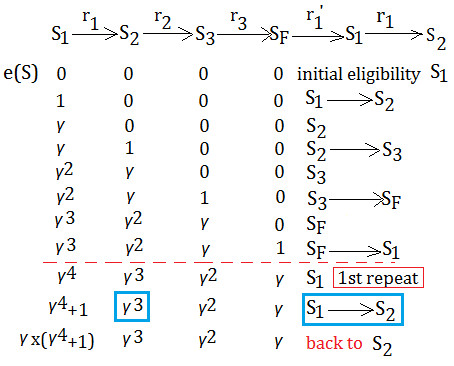
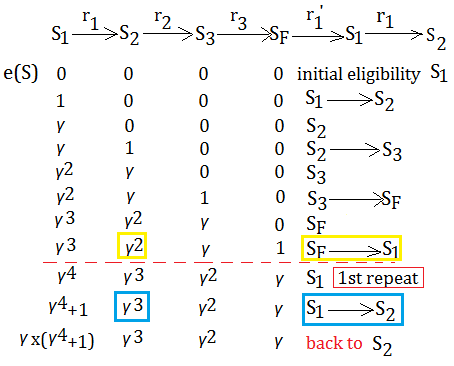
update _posts/2018-12-23-rl-temp-diff-learn.md with repeated TD(1) illustration, 11

Changed region(s): [[0.6476, 0.6311, 0.8943, 0.7213], [0.2467, 0.6311, 0.3392, 0.7213]]

diff --git a/_posts/2018-12-23-rl-temp-diff-learn.md b/_posts/2018-12-23-rl-temp-diff-learn.md
@@ -256,6 +256,13 @@ title: Temporal Difference Learning
 ><font color="Brown">[The repeated update term of $S_{2}$ by mjtsai1974]</font>
 >I'd like to generalize the expression of update term of $S_{2}$ in the repeated case.  Below exhibits the <font color="DeepSkyBlue">eligibility</font> upgrade in the 1st repeation of $S_{2}$.  
 ![]({{ site.github.repo }}{{ site.baseurl }}/images/pic/2018-12-23-rl-temp-diff-learn-example-td1-repeated-eligibility.png "repeated e(S2)")
+>Next to investigate the update term of $S_{2}$, the initial temporal difference of $S_{2}$ in eposide $T+1$ consists of below 3 parts:  
+>&#10112;$\alpha\cdot(r_{2}$+$\gamma\cdot r_{3}$+$\gamma^{2}\cdot V_{T-1}(S_{F})-V_{T-1}(S_2))$  
+>This is the part of update term of $S_{2}$ after transiting to $S_{F}$, in eposide $T$.  
+>&#10113;$\alpha\cdot\gamma^{2}\cdot(r_{1}'+\gamma\cdot V_{T-1}(S_{1})-V_{T-1}(S_{f}))$  
+>This is the part of update term of $S_{2}$ contributed from $S_{F}$ to $S_{1}$, be noted that <font color="OrangeRed">the eligibility of $S_{2}$ is $\gamma^{2}$ at this moment</font> in eposide $T$.  
+>&#10114;$\alpha\cdot\gamma^{3}\cdot(r_{1}+\gamma\cdot V_{T}(S_{2})-V_{T}(S_{1}))$  
+>This is the part of update term of $S_{2}$ contributed when transiting from $S_{1}$ to $S_{2}$ in eposide, watch out, it's <font color="OrangeRed">$T+1$</font> now, thus, we use $V_{T}(S_{1})$, V_{T}(S_{2}).  <font color="OrangeRed">The eligibility of $S_{2}$ at this moment is $\gamma^{3}$</font>.  
 
 <!--
 ### Example: <font color="Red">$TD(1)$</font> Illustration
